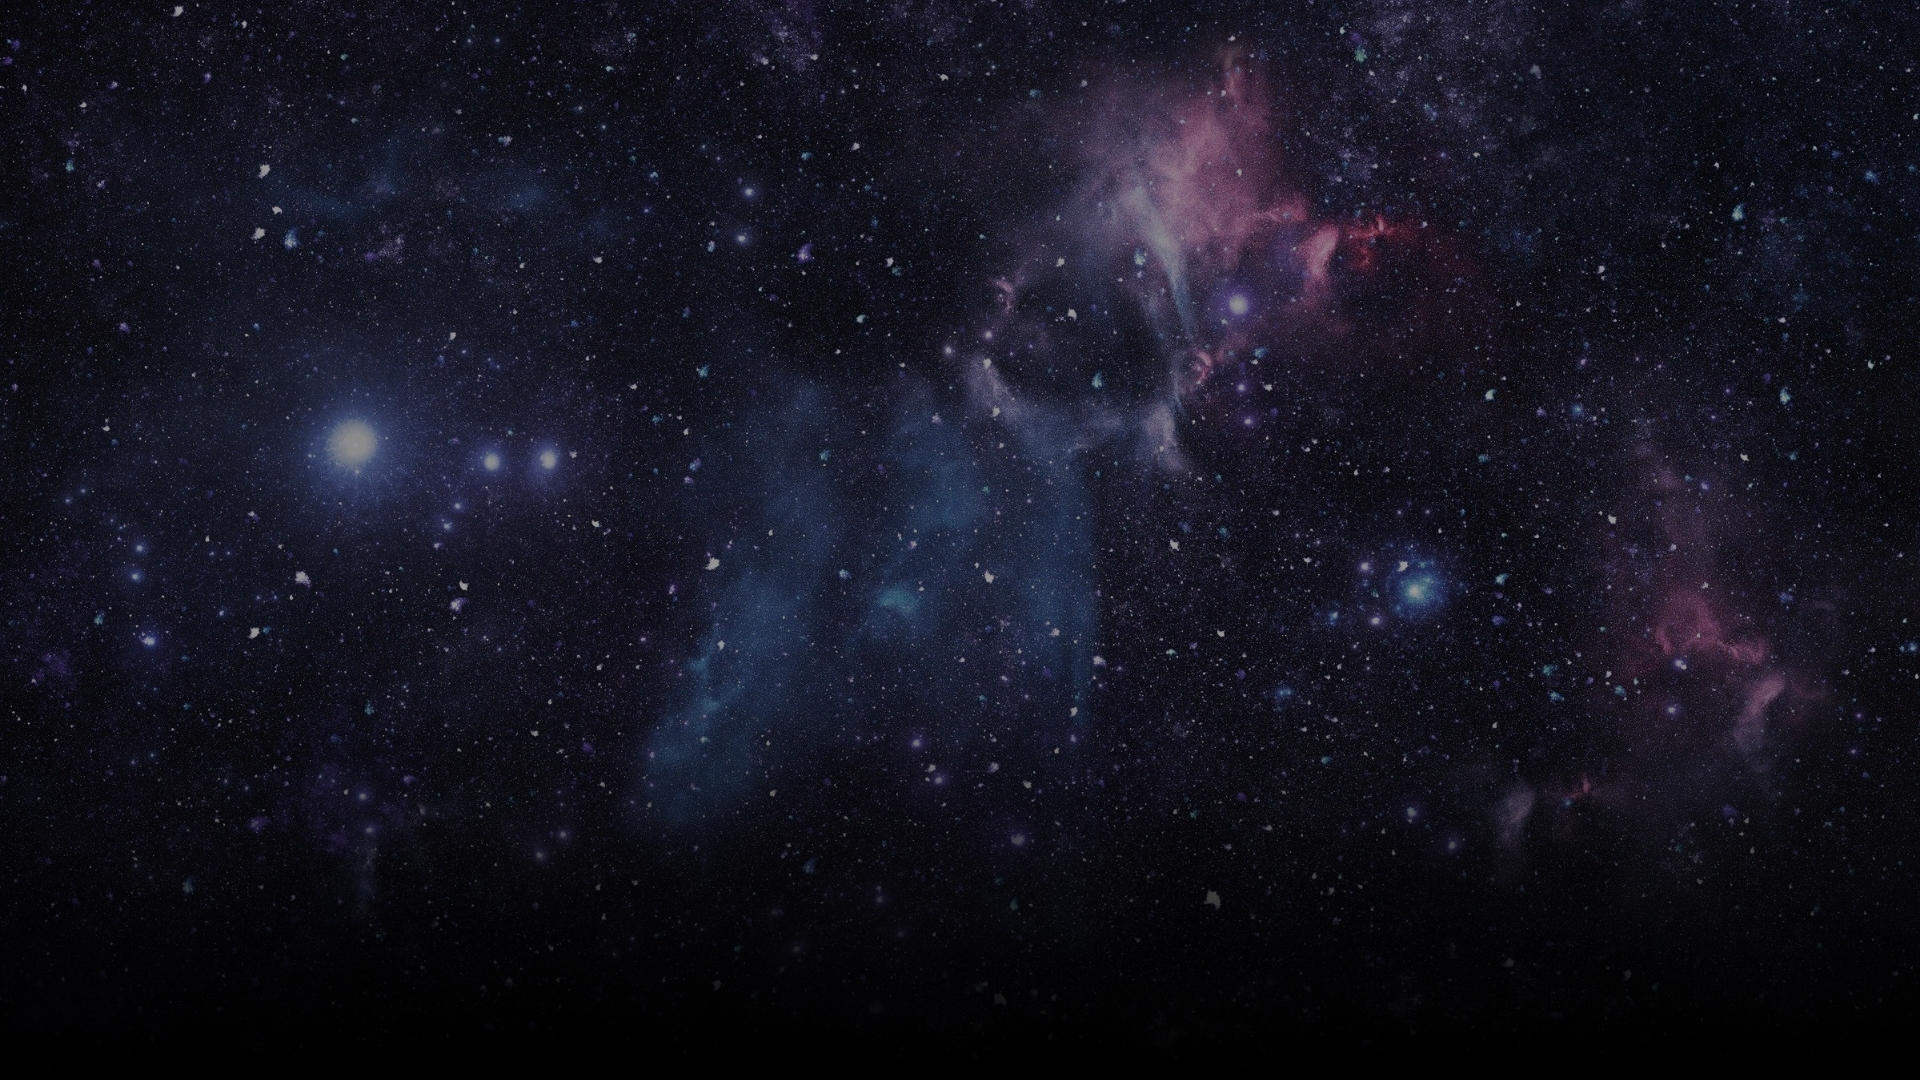
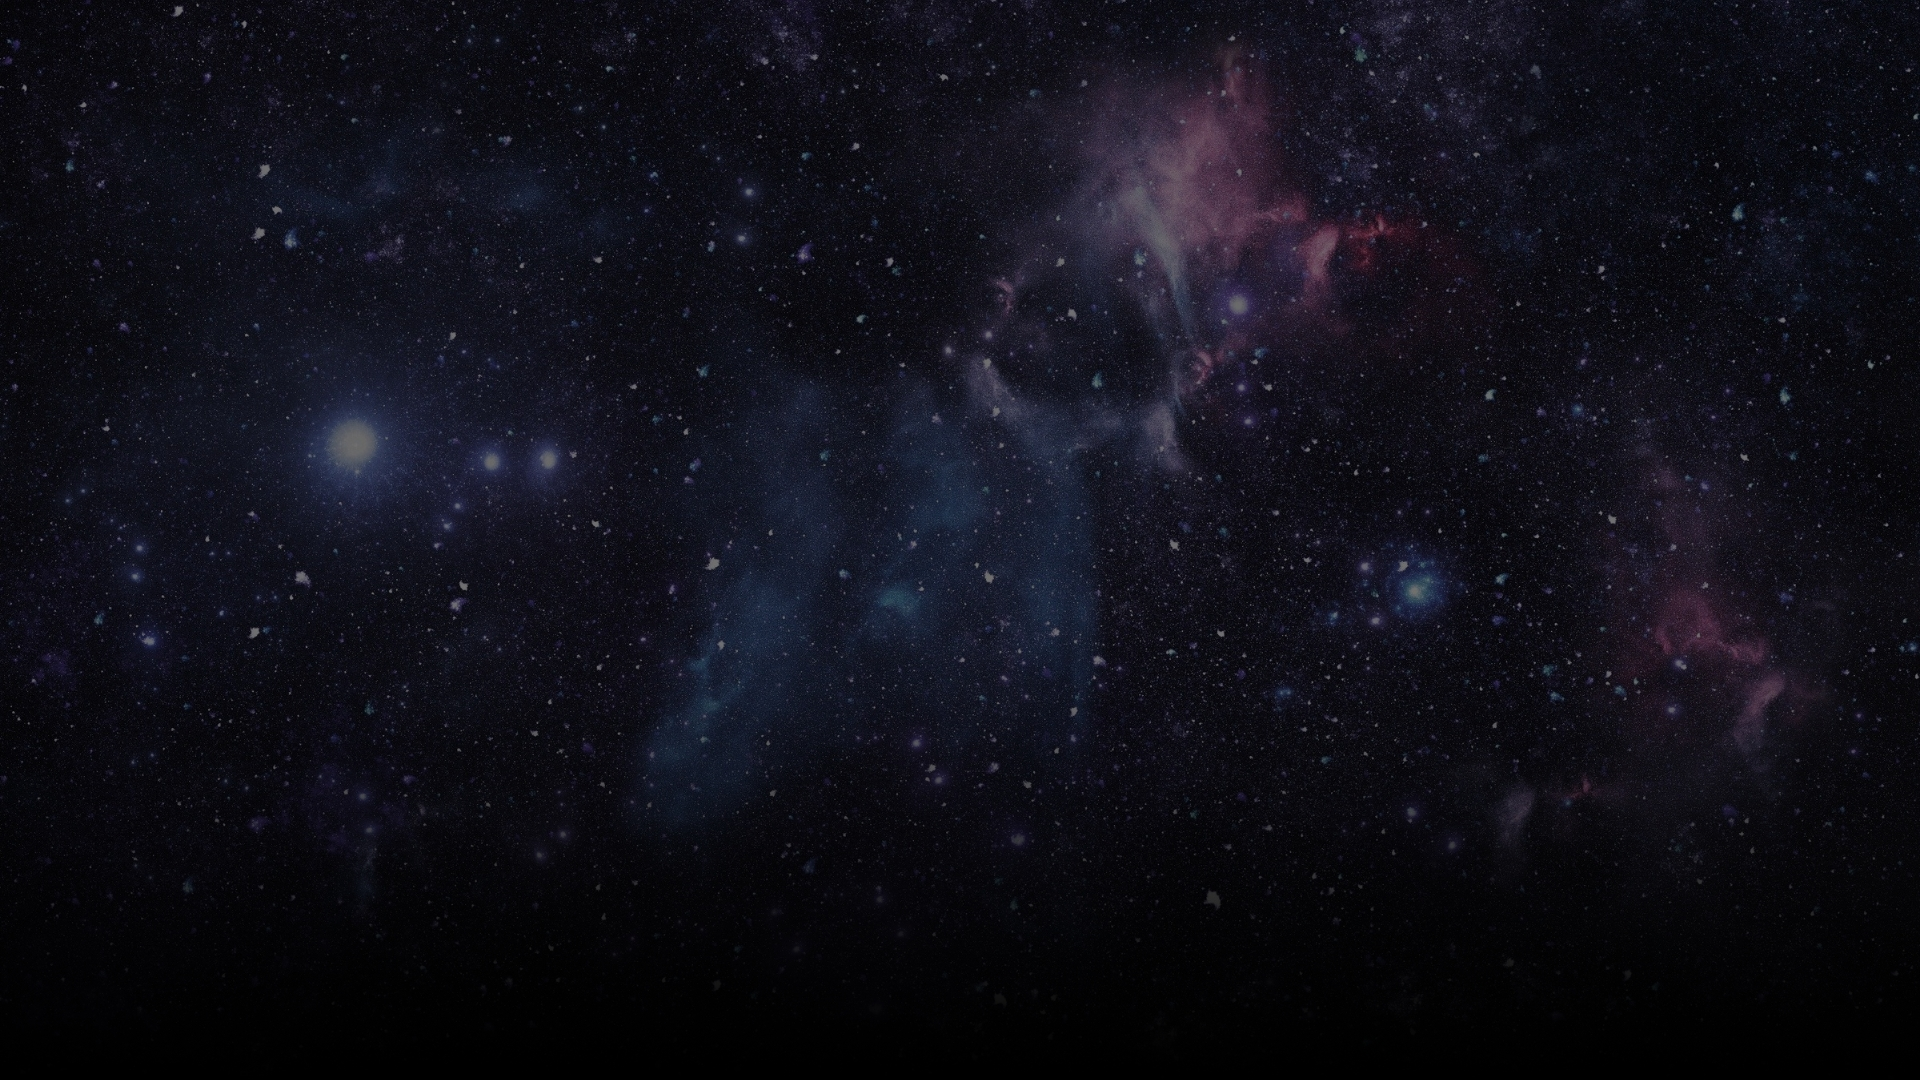
June 4 Skills Slider

diff --git a/src/components/Skills.js b/src/components/Skills.js
@@ -39,74 +39,74 @@ export const Skills = () => {
               {({ isVisible }) => 
                 <div className={isVisible ? "animate__animated animate__fadeIn" : ""} >
                   <div className="skill-bx">
-              <h2>Skills</h2>
-              <p>I thrive on continuous learning and staying ahead of digital trends, ensuring that I bring fresh, effective strategies to every project, ensuring measurable success and long-term impact for businesses and their digital presence.</p>
-              <Carousel responsive={responsive} infinite={true} className="skill-slider">
-                <div className="item">
-                  <img src={meter1} alt="" />
-                  <h5>HTML</h5>
-                </div>
-                <div className="item">
-                  <img src={meter2} alt="" />
-                  <h5>CSS</h5>
-                </div>
-                <div className="item">
-                  <img src={meter3} alt="" />
-                  <h5>Bootstrap</h5>
-                </div>
-                <div className="item">
-                  <img src={meter1} alt="" />
-                  <h5>JavaScript</h5>
-                </div>
-                <div className="item">
-                  <img src={meter2} alt="" />
-                  <h5>jQuery</h5>
-                </div>
-                <div className="item">
-                  <img src={meter3} alt="" />
-                  <h5>React JS</h5>
-                </div>
-                <div className="item">
-                  <img src={meter1} alt="" />
-                  <h5>Git</h5>
-                </div>
-                <div className="item">
-                  <img src={meter2} alt="" />
-                  <h5>APIs</h5>
-                </div>
-                <div className="item">
-                  <img src={meter3} alt="" />
-                  <h5>MySQL</h5>
-                </div>
-                <div className="item">
-                  <img src={meter1} alt="" />
-                  <h5>Mongoose</h5>
-                </div>
-                <div className="item">
-                  <img src={meter2} alt="" />
-                  <h5>Node JS</h5>
-                </div>
-                <div className="item">
-                  <img src={meter3} alt="" />
-                  <h5>Express JS</h5>
-                </div>
-                <div className="item">
-                  <img src={meter1} alt="" />
-                  <h5>PHP</h5>
-                </div>
-                <div className="item">
-                  <img src={meter2} alt="" />
-                  <h5>slimPHP</h5>
-                </div>
-                <div className="item">
-                  <img src={meter3} alt="" />
-                  <h5>Wordpress</h5>
-                </div>
-                <div className="item">
-                  <img src={meter1} alt="" />
-                  <h5>Canva</h5>
-                </div>
-              </Carousel>
+                    <h2>Skills</h2>
+                    <p>I thrive on continuous learning and staying ahead of digital trends, ensuring that I bring fresh, effective strategies to every project, ensuring measurable success and long-term impact for businesses and their digital presence.</p>
+                    <Carousel responsive={responsive} infinite={true} className="skill-slider">
+                      <div className="item">
+                        <img src={meter3} alt="" />
+                        <h5>HTML</h5>
+                      </div>
+                      <div className="item">
+                        <img src={meter2} alt="" />
+                        <h5>CSS</h5>
+                      </div>
+                      <div className="item">
+                        <img src={meter2} alt="" />
+                        <h5>Bootstrap</h5>
+                      </div>
+                      <div className="item">
+                        <img src={meter2} alt="" />
+                        <h5>JavaScript</h5>
+                      </div>
+                      <div className="item">
+                        <img src={meter2} alt="" />
+                        <h5>jQuery</h5>
+                      </div>
+                      <div className="item">
+                        <img src={meter2} alt="" />
+                        <h5>React JS</h5>
+                      </div>
+                      <div className="item">
+                        <img src={meter2} alt="" />
+                        <h5>Git</h5>
+                      </div>
+                      <div className="item">
+                        <img src={meter2} alt="" />
+                        <h5>APIs</h5>
+                      </div>
+                      <div className="item">
+                        <img src={meter2} alt="" />
+                        <h5>MySQL</h5>
+                      </div>
+                      <div className="item">
+                        <img src={meter2} alt="" />
+                        <h5>Mongoose</h5>
+                      </div>
+                      <div className="item">
+                        <img src={meter2} alt="" />
+                        <h5>Node JS</h5>
+                      </div>
+                      <div className="item">
+                        <img src={meter2} alt="" />
+                        <h5>Express JS</h5>
+                      </div>
+                      <div className="item">
+                        <img src={meter2} alt="" />
+                        <h5>PHP</h5>
+                      </div>
+                      <div className="item">
+                        <img src={meter2} alt="" />
+                        <h5>slimPHP</h5>
+                      </div>
+                      <div className="item">
+                        <img src={meter3} alt="" />
+                        <h5>Wordpress</h5>
+                      </div>
+                      <div className="item">
+                        <img src={meter3} alt="" />
+                        <h5>Canva</h5>
+                      </div>
+                    </Carousel>
                   </div>
                 </div>
               }
@@ -115,8 +115,8 @@ export const Skills = () => {
         </Row>
       </Container>
       {/* <img className="background-image-left" src={colorSharp} /> */}
-      <img className="background-top" src={BackgroundTop} />
-      <img className="background-bottom" src={BackgroundBottom} />
+      <img className="background-top" src={BackgroundTop} alt="background-top" />
+      <img className="background-bottom" src={BackgroundBottom} alt="background-bottom" />
     </section>
   )
 }

diff --git a/src/App.css b/src/App.css
@@ -242,7 +242,7 @@ nav.navbar .navbar-toggler[aria-expanded="true"] .navbar-toggler-icon {
 .banner {
   margin-top: 0;
   padding: 200px 0 100px 0;
-  background-image: url('./assets/img/banner7.jpg');
+  background-image: url('./assets/img/banner.jpg');
   background-position: top center;
   background-size: cover;
   background-repeat: no-repeat;
@@ -321,12 +321,11 @@ nav.navbar .navbar-toggler[aria-expanded="true"] .navbar-toggler-icon {
   background: #0c0009;
   /* background: black; */
   /* background: linear-gradient(90.21deg, #1a0210 -5.91%, #3d132d 111.58%); */
-
   border-radius: 64px;
   text-align: center;
   padding: 60px 50px;
   margin: 100px 0 50px;
-  position: relative;
+  position: static;
   z-index: 1;
 
 }
@@ -340,6 +339,8 @@ nav.navbar .navbar-toggler[aria-expanded="true"] .navbar-toggler-icon {
   letter-spacing: 0.8px;
   line-height: 1.5em;
   margin: 14px 0 75px 0;
+  width: 70%;
+  margin: 0 auto 50px;
 }
 .skill-slider {
   width: 80%;
